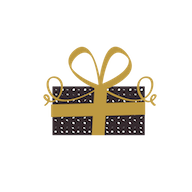
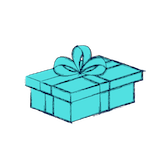
added styling

Changed region(s): [[0.1488, 0.2381, 0.8631, 0.744]]

diff --git a/src/components/landing/LandingItem.js b/src/components/landing/LandingItem.js
@@ -3,6 +3,7 @@ import { Link } from "react-router-dom"
 import { ListGroupItem, ListGroupItemHeading, Row, Col } from 'reactstrap';
 import inProgress from "./../../images/inProgress.png"
 import complete from "./../../images/complete.png"
+import noGifts from "./../../images/noGifts.png"
 import moment from 'moment'
 
 export default class LandingItem extends Component {
@@ -27,7 +28,7 @@ export default class LandingItem extends Component {
         <ListGroupItem className="landingListItem">
           <Row>
             <Col xs={2} className="d-flex align-items-center  my-auto">
-              <img src={userOcc.occasion.img} alt={userOcc.occasion.name} />
+              <img className="occIcon" src={userOcc.occasion.imgLg} alt={userOcc.occasion.name} />
             </Col>
             <Col xs={4} className="d-flex align-items-center text-center">
               {
@@ -48,7 +49,7 @@ export default class LandingItem extends Component {
                 : (userOcc.occasion.groupHoliday === "0" && this.props.friendOcc.giftStatus === 0 &&  gifts.length > 0)
                 ||(userOcc.occasion.groupHoliday === "1" && status[`${userOcc.id}`] === "inProgress")
                 ? <img src={inProgress} alt="inProgress"  />
-                : null
+                : <img src={noGifts} alt="noGifts"  />
               }
 
               {

diff --git a/src/components/friends/FriendOccasions.js b/src/components/friends/FriendOccasions.js
@@ -1,6 +1,7 @@
 import React, { Component } from 'react';
 import { ListGroupItemText, Col } from 'reactstrap';
 import moment from 'moment'
+import "./Friends.css"
 
 export default class FriendOccasions extends Component {
 
@@ -12,7 +13,7 @@ export default class FriendOccasions extends Component {
     return (
       <React.Fragment>
         <Col className="text-center" >
-          <img src={userOcc.occasion.img}
+          <img className="occIcon" src={userOcc.occasion.imgLg}
 
           alt={userOcc.occasion.name} />
           <h5>{userOcc.occasion.name}</h5>

diff --git a/src/index.scss b/src/index.scss
@@ -18,4 +18,3 @@ $dark:#000633;
 @import "../node_modules/bootstrap/scss/bootstrap"
 
 // Add SASS theme customizations here..
-

diff --git a/src/components/friends/Friends.css b/src/components/friends/Friends.css
@@ -7,3 +7,7 @@
 /* #addFriendForm {
   background-color:#BFACAA
 } */
+
+.occIcon {
+  max-width: 100px;
+}

diff --git a/src/components/landing/Landing.css b/src/components/landing/Landing.css
@@ -6,3 +6,7 @@
   margin: 5px;
   background-color:#CCC5B9
 }
+
+.occIcon {
+  max-width: 200px;
+}
